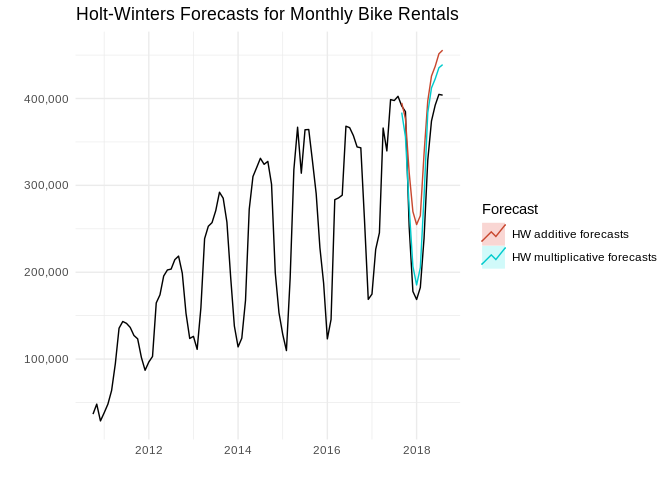
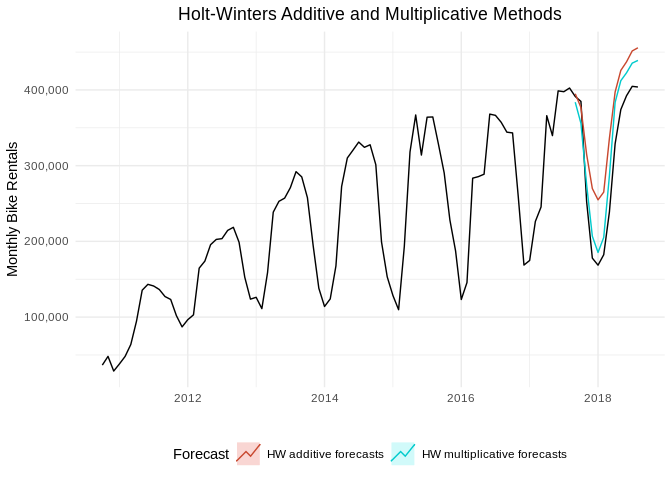
added equations to ets post

diff --git a/_posts/2019-10-05-Monthly_Bike_Forecast_ETS.md b/_posts/2019-10-05-Monthly_Bike_Forecast_ETS.md
@@ -6,25 +6,75 @@ excerpt: "Predicting monthly Bikeshare usage with R, forecast"
 
 ---
 
-One of my team's responsibilities at Marriott is to set annual goals for hotel performance on our guest satisfaction survey. Goals are set at the beginning of the year by forecasting performance for each of the +6000 hotels and then go through a lengthy review process with business stakeholders as year-end bonuses are based in part on hotels matching these goals. While a hotel's performance can be affected by a number of factors, we generally base our forecasts on past performance data.
+Exponential smoothing is one of the fundamental methods for forecasting
+univariate series. The basic idea behind the method is that forecasts
+are produced using a weighted average of past observations. This post
+will examine applying exponential smoothing to forecast monthly
+ridership on the Capital BikeShare program.
 
-One of the fundamental methods for forecasting univariate series is
-[exponential
-smoothing](https://en.wikipedia.org/wiki/Exponential_smoothing). The
-basic idea behind the method is that forecasts are produced using a
-weighted average of past observations. Furthermore, the weights applied
-to the past observations decay exponentially as the observations get
-older, with more recent observations receiving greater weight. This post
-will examine applying this method to predict monthly ridership on the
-Capital BikeShare program. The data was gathered from the official DC Bike Share [site](https://s3.amazonaws.com/capitalbikeshare-data/index.html), spans bike trips logged from October, 2010 to August, 2018, and has been aggregated up from a daily level.
+Some background first. For a raw data sequence represented by
+{*x*<sub>*t*</sub>}, beginning at *t* = 0, and the forecast of the next
+value in our sequence represented as *x̂*<sub>*t* + 1</sub>, the simplest
+form of exponential smoothing is given by the formula:
 
+*x̂*<sub>*t* + 1</sub> = *α**x*<sub>*t*</sub> + *α*(1 − *α*)*x*<sub>*t* − 1</sub> + *α*(1 − *α*)<sup>2</sup>*x*<sub>*t* − 2</sub>..
 
-**Partitioning the data for back-testing**
+In the formula above, the rate at which the weights decrease is
+determined by the *α*, or the **smoothing factor** which is bound by
+0 &lt; *α* &lt; 1. If *α* is closer to 0, more weight is given to
+observations from the more distant past, while a value of *α* that is
+closer to 1 will give more more weight to recent observations.
 
-To test the accuracy of the predictions, we will split the data stored
-in `ts_month` using the `TSstudio` package into `test` and `train`
-objects. The test period is set to be the final 12 observations, or one
-year.
+In the equation above, the time series is represented solely by the
+observations’ values themselves (current and past). A more nuanced, but
+standard formulation, breaks the model into three components: the level
+*l*<sub>*t*</sub>, trend *b*<sub>*t*</sub>, and seasonal
+*s*<sub>*t*</sub> components. In comparison to regular linear
+regression, the level can be thought of as the intercept and the trend
+the slope.As can be seen below, the bike data demonstrates clear
+seasonality and a growing trend in overall ridership, so our exponential
+smoothing model will need to account for both.
+
+![](/rblogging/2019/10/05/viz-1.png)
+
+In the chart above, it’s also noticeablable that the size of the
+seasonal swings in ridership have grown over time, meaning our method
+will need to account for that as well. In total, our forecast model will
+take on the following form, with all three components given their own
+smoothing factors. This model is known as the **Holt-Winter’s
+multiplicative method** and each smoothing factor is estimated on the
+basis of minimizing the sum of the square residuals (SSE):
+
+**Overall model** with *h* denoting the number of periods forecast into
+the future (horizon), *m* denoting the frequency of the seasonality
+(m=12 for monthly data), and k representing the integer part of
+*(h-1)/m* which ensures that the estimate of the seasona indices used
+for forecasting come from the final year of the sample.
+*ŷ*<sub>*t* + *h*\|*t*</sub> = (*l*<sub>*t*</sub> + *h**b*<sub>*t*</sub>)*s*<sub>*t* + *h* − *m*(*k* + 1)</sub>
+
+**Level** component, with *a**l**p**h**a* as the smoothing parameter
+bound between 0 and 1.
+$$l\_{t} = \\alpha\\frac{y\_{t}}{s\_{t-m}}+(1-\\alpha)(l\_{t-1}+b\_{t-1})$$
+
+**Trend** component, with *β* as the smoothing parameter bound between 0
+and 1
+*b*<sub>*t*</sub> = *β*(*l*<sub>*t*</sub> − *l*<sub>*t* − 1</sub>) + (1 − *β*)*b*<sub>*t* − 1</sub>
+
+**Season** component, with *γ* as the smoothing parameter bound between
+0 and 1
+$$s\_{t} = \\gamma\\frac{y\_{t}}{l\_{t-1}+b\_{t-1}}+(1-\\gamma)s\_{t-m}$$
+
+Read more about the Holt-Winters methodology
+[here](https://otexts.com/fpp2/holt-winters.html).
+
+------------------------------------------------------------------------
+
+**Holt-Winters Modeling**
+
+To test the accuracy of the predictions, we will first split the data
+stored in `ts_month` using the `TSstudio` package into `test` and
+`train` objects. The test period is set to be the final 12 observations,
+or one year.
 
 ``` r
 ts_month
@@ -57,22 +107,8 @@ train <- ts_month_partition$train
 test <- ts_month_partition$test
 ```
 
-**Holt-Winters Modeling**
-
-![](/rblogging/2019/10/05/viz-1.png)
-
-Given both the clear seasonality and growing trend in the series, we’ll
-use the Holt-Winters method (sometimes known as the Triple Exponential
-Smoothing) which will capture both factors. Specifically, the
-Holt-Winters uses three separate smoothing factors to compose the
-forecast; one for the level (alpha), another for trend (beta), and a
-final for the seasonal component (gamma).
-
-Furthermore, given that the size of the seasonal swings in ridership are
-not constant and have grown from \~100k in 2012 to over +200k in 2017
-and 2018, it makes sense to try a multiplicative method as well as
-additive. Read more about the methodology
-[here](https://otexts.com/fpp2/holt-winters.html).
+Although the data appears to be better fit using a multiplicative
+method, we’ll run an additive model as well for comparison:
 
 ``` r
 add_fit <- hw(train,seasonal="additive",h = 12)
@@ -83,13 +119,19 @@ autoplot(ts_month) +
     PI=FALSE) +
   scale_y_continuous(label=comma) + theme_minimal() +
   xlab(" ") +
-  ylab("") +
-  ggtitle("Holt-Winters Forecasts for Monthly Bike Rentals") +
+  ylab("Monthly Bike Rentals") +
+  ggtitle("Holt-Winters Additive and Multiplicative Methods") +
   guides(colour=guide_legend(title="Forecast")) +
-  theme(plot.title = element_text(hjust = 0.5))
+  theme(plot.title = element_text(hjust = 0.5)) +
+  theme(legend.position = "bottom")
 ```
 
 ![](/rblogging/2019/10/05/holt-winters-1.png)
+
+``` r
+#summary(add_fit)
+#summary(mult_fit)
+```
 
 It certainly appears that the multiplicative model does a better job
 than the additive one in estimating the ridership, at least until the
@@ -97,10 +139,10 @@ final few months of the predictive window at which point the two
 estimates are quite similar.
 
 We can confirm this by looking at the errors on a monthly basis. Over
-the 12 months, the mean absolute percent error (MAPE) for the additive model is
-23.9% while the multiplicative method has a MAPE of 10.6%.
+the 12 months, the mean absolute percent error for the additive model is
+18.5% while the multiplicative method is closer at 10.1%.
 
-|  Actual|  Add.Forecast|      Add.Error|  Add.Error.Perc|  Mult.Forecast|      Mult.Error|  Mult.Error.Perc|
+|  Actual|  Add.Forecast|  Add.Error.Abs|  Add.Error.Perc|  Mult.Forecast|  Mult.Error.Abs|  Mult.Error.Perc|
 |-------:|-------------:|--------------:|---------------:|--------------:|---------------:|----------------:|
 |  391371|      394964.9|       3593.933|            0.92|       383812.5|       -7558.548|            -1.93|
 |  384833|      376862.2|      -7970.817|           -2.07|       355866.2|      -28966.766|            -7.53|
@@ -115,16 +157,124 @@ the 12 months, the mean absolute percent error (MAPE) for the additive model is
 |  404761|      451522.4|      46761.354|           11.55|       435415.4|       30654.421|             7.57|
 |  403866|      455687.8|      51821.826|           12.83|       439027.5|       35161.529|             8.71|
 
+**Damped trend**
+
+Since the multiplicative forecast appeared to over-estimate ridership in
+the second half of the prediction period, we can try and improve the
+forecast by adding a damped trend. The damped trend introduced another
+parameter to the trend equation that will eventually turn the trend to a
+flat line sometime in the future. This is a popular method and often
+improves the performance of the model.
+
+Unfortunately, the addition of the damped method doesn’t appear to
+improve our model’s performance. Although the forecast appears to be
+better in the second half of the year, the damped method over-estimates
+ridership in the first half of the year and returns an overall mape of
+17.1%
+
+![](/rblogging/2019/10/05/unnamed-chunk-1-1.png)
+
+    ##
+    ## Forecast method: Damped Holt-Winters' additive method
+    ##
+    ## Model Information:
+    ## Damped Holt-Winters' additive method
+    ##
+    ## Call:
+    ##  hw(y = train, h = 12, seasonal = "additive", damped = TRUE)
+    ##
+    ##   Smoothing parameters:
+    ##     alpha = 0.6634
+    ##     beta  = 1e-04
+    ##     gamma = 2e-04
+    ##     phi   = 0.98
+    ##
+    ##   Initial states:
+    ##     l = 66591.7264
+    ##     b = 6286.9906
+    ##     s = 54227.86 66405.14 66653.16 56637.41 49788.04 25701.69
+    ##            -30898.23 -92565.77 -100297.8 -84179.48 -34696.41 23224.4
+    ##
+    ##   sigma:  32102.06
+    ##
+    ##      AIC     AICc      BIC
+    ## 2106.269 2116.957 2149.809
+    ##
+    ## Error measures:
+    ##                    ME     RMSE      MAE       MPE     MAPE      MASE       ACF1
+    ## Training set 322.6186 28626.34 22412.05 0.1826105 17.16446 0.5160072 0.05871017
+    ##
+    ## Forecasts:
+    ##          Point Forecast    Lo 80    Hi 80    Lo 95    Hi 95
+    ## Sep 2017       390073.5 348933.1 431214.0 327154.6 452992.4
+    ## Oct 2017       360201.8 310829.7 409574.0 284693.7 435710.0
+    ## Nov 2017       303394.8 246977.4 359812.2 217111.9 389677.8
+    ## Dec 2017       255002.9 192325.3 317680.5 159145.8 350860.0
+    ## Jan 2018       239947.4 171578.8 308316.1 135386.6 344508.3
+    ## Feb 2018       248720.2 175097.5 322342.8 136124.0 361316.3
+    ## Mar 2018       311403.3 232875.9 389930.6 191306.1 431500.5
+    ## Apr 2018       369022.8 285878.3 452167.4 241864.2 496181.5
+    ## May 2018       394077.6 306557.9 481597.3 260227.7 527927.5
+    ## Jun 2018       401904.0 310216.4 493591.5 261679.9 542128.0
+    ## Jul 2018       412855.6 317180.5 508530.7 266533.2 559178.0
+    ## Aug 2018       413533.5 314029.5 513037.5 261355.3 565711.7
+
+    ##
+    ## Forecast method: Holt-Winters' multiplicative method
+    ##
+    ## Model Information:
+    ## Holt-Winters' multiplicative method
+    ##
+    ## Call:
+    ##  hw(y = train, h = 12, seasonal = "multiplicative")
+    ##
+    ##   Smoothing parameters:
+    ##     alpha = 0.1802
+    ##     beta  = 0.0083
+    ##     gamma = 1e-04
+    ##
+    ##   Initial states:
+    ##     l = 48742.7635
+    ##     b = 6048.0226
+    ##     s = 1.2036 1.2746 1.2727 1.2437 1.2215 1.1445
+    ##            0.862 0.621 0.5648 0.6348 0.8488 1.108
+    ##
+    ##   sigma:  0.1343
+    ##
+    ##      AIC     AICc      BIC
+    ## 2071.091 2080.506 2112.211
+    ##
+    ## Error measures:
+    ##                     ME     RMSE      MAE       MPE     MAPE      MASE      ACF1
+    ## Training set -4035.313 21647.46 17298.83 -4.192721 10.10881 0.3982823 0.1216346
+    ##
+    ## Forecasts:
+    ##          Point Forecast    Lo 80    Hi 80    Lo 95    Hi 95
+    ## Sep 2017       383812.5 317773.1 449851.8 282813.9 484811.0
+    ## Oct 2017       355866.2 293554.3 418178.1 260568.4 451164.1
+    ## Nov 2017       274616.9 225651.0 323582.8 199730.1 349503.8
+    ## Dec 2017       206849.5 169269.3 244429.6 149375.6 264323.3
+    ## Jan 2018       185347.2 151018.6 219675.8 132846.2 237848.2
+    ## Feb 2018       205223.4 166456.2 243990.7 145934.0 264512.8
+    ## Mar 2018       286876.9 231582.8 342170.9 202311.9 371441.8
+    ## Apr 2018       383590.8 308125.3 459056.2 268176.4 499005.2
+    ## May 2018       412234.7 329431.0 495038.4 285597.4 538872.0
+    ## Jun 2018       422610.3 335918.7 509301.9 290026.9 555193.7
+    ## Jul 2018       435415.4 344181.1 526649.7 295884.6 574946.2
+    ## Aug 2018       439027.5 345048.8 533006.3 295299.4 582755.6
+
 **Utilizing ets()**
 
-A more customizable forecasting method than using the `hw()` model is
-the `ets()` function in the `forecast` package which allows greater
-specification of the model. It's also the method my team uses in predicting hotel performance.
+A second function for creating exponential smoothing forecasts, is the
+`ets()` function in the `forecast` package. This differs from `hw()`
+used above by optimizing different criterion. While the `hw` function
+estimates parameters by optimizing the mean squared errors, `ets` is
+estimating parameters by optimizing the likelihood function.
 
-The function’s **model** parameter can be specified with a three
-character string. The first letter denotes the error type, the second
-letter denotes the trend type, and the third letter denotes the season
-type. The options you can specify for each component are below:
+The **model** parameter in the `ets()` function can be specified with a
+three character string. The first letter denotes the error type, the
+second letter denotes the trend type, and the third letter denotes the
+season type. The options you can specify for each component are below:
 
 -   error: additive (“A”), multiplicative (“M”), unknown (“Z”)
 -   trend: none (“N”), additive (“A”), multiplicative (“M”), unknown
@@ -132,12 +282,14 @@ type. The options you can specify for each component are below:
 -   seasonality: none (“N”), additive (“A”), multiplicative (“M”),
     unknown (“Z”)
 
-For example, setting `model='AAA'` would produce a model with additive
-error, additive trend, and additive seasonality. By default, the
+For example, setting `model='AAM'` would produce a model with additive
+error, additive trend, and multiplicative seasonality. By default, the
 parameter is set to “ZZZ” which passes unknown values to each component
-and allows the algorithm to select the ‘optimal’ model by minimizing
-RMSE, AIC, and BIC on the training data set. See reference
-[here](https://www.rdocumentation.org/packages/forecast/versions/8.12/topics/ets).
+and allows the algorithm to select the ‘optimal’ model. See `ets()`
+reference
+[here](https://www.rdocumentation.org/packages/forecast/versions/8.12/topics/ets)
+and more on comparing to `hw()`,
+[here](https://robjhyndman.com/hyndsight/estimation2/).
 
 Running the model with the default setting returns ETS(M,Ad,M):
 
@@ -164,11 +316,11 @@ Running the model with the default setting returns ETS(M,Ad,M):
     ## 2059.187 2069.874 2102.726
 
 Forecasting a year forward with this model provide a much better
-prediction, returning a MAPE of just 4.6%
+prediction, returning an average absolute error of just 4.6%
 
 ![](/rblogging/2019/10/05/ets%20evaluation-1.png)
 
-|  Actual|  ETS.Forecast|       ETS.Error|  ETS.Error.Perc|
+|  Actual|  ETS.Forecast|  ETS.Error.Abs.|  ETS.Error.Perc|
 |-------:|-------------:|---------------:|---------------:|
 |  391371|      370883.7|      -20487.327|           -5.23|
 |  384833|      324247.9|      -60585.135|          -15.74|
@@ -182,3 +334,11 @@ prediction, returning a MAPE of just 4.6%
 |  392338|      398949.3|        6611.274|            1.69|
 |  404761|      403389.4|       -1371.609|           -0.34|
 |  403866|      398558.4|       -5307.588|           -1.31|
+
+------------------------------------------------------------------------
+
+References:
+
+Hyndman, R.J., & Athanasopoulos, G. (2018) Forecasting: principles and
+practice, 2nd edition, OTexts: Melbourne, Australia.
+[OTexts.com/fpp2](https://otexts.com/fpp2/)

diff --git a/_posts/2019-11-01-Monthly_Bike_Forecast.md b/_posts/2019-11-01-Monthly_Bike_Forecast.md
@@ -20,6 +20,10 @@ The original data was gathered from the official DC Bike Share
 bike trips logged from October, 2010 to August, 2018, and has been aggregated up from a daily level.
 
 
+Having used this data [previously](https://rsolter.github.io/r/forecasting/Monthly_Bike_Forecast_ETS/) to forecast with exponential smoothing models, I wanted to try ARIMA out in part because it allows for explanatory variables in the regression. ARIMA is an acronym for Auto Regressive (AR) Integrated (I) Moving Average (MA) and can be implemented in R using the automated function `auto.arima` from the forecast package. For illustration, I've added monthly average temperatures [downloaded](https://www.ncei.noaa.gov/access/search/data-search/global-summary-of-the-month) from NOAA and collected from the Regan National Airport weather station.
+
+
+
 From the initial plot, we can tell the data has clear seasonality with many fewer riders in the winter months. At the same time, we see an overall growing trend that appears logarithmic.
 
 ![](/rblogging/2019/11/01/Monthly_Bike_Forecast_files/Plots-1.png)

diff --git a/_posts/2020-04-04-DSonChromeOS.md b/_posts/2020-04-04-DSonChromeOS.md
@@ -326,7 +326,7 @@ Adding R to Jupyter notebooks installed via Anaconda is tricky. After a few fail
 
 **Installing Packages in R:**
 
-  **Important note**: Install packages from the command line in base r
+  **Important note**: Install packages from the command line in base R. Also, use `verbose=FALSE` when using install.packages()  
 
   Among the packages [recommended by RStudio](https://support.rstudio.com/hc/en-us/articles/201057987-Quick-list-of-useful-R-packages), I installed the following:
 
